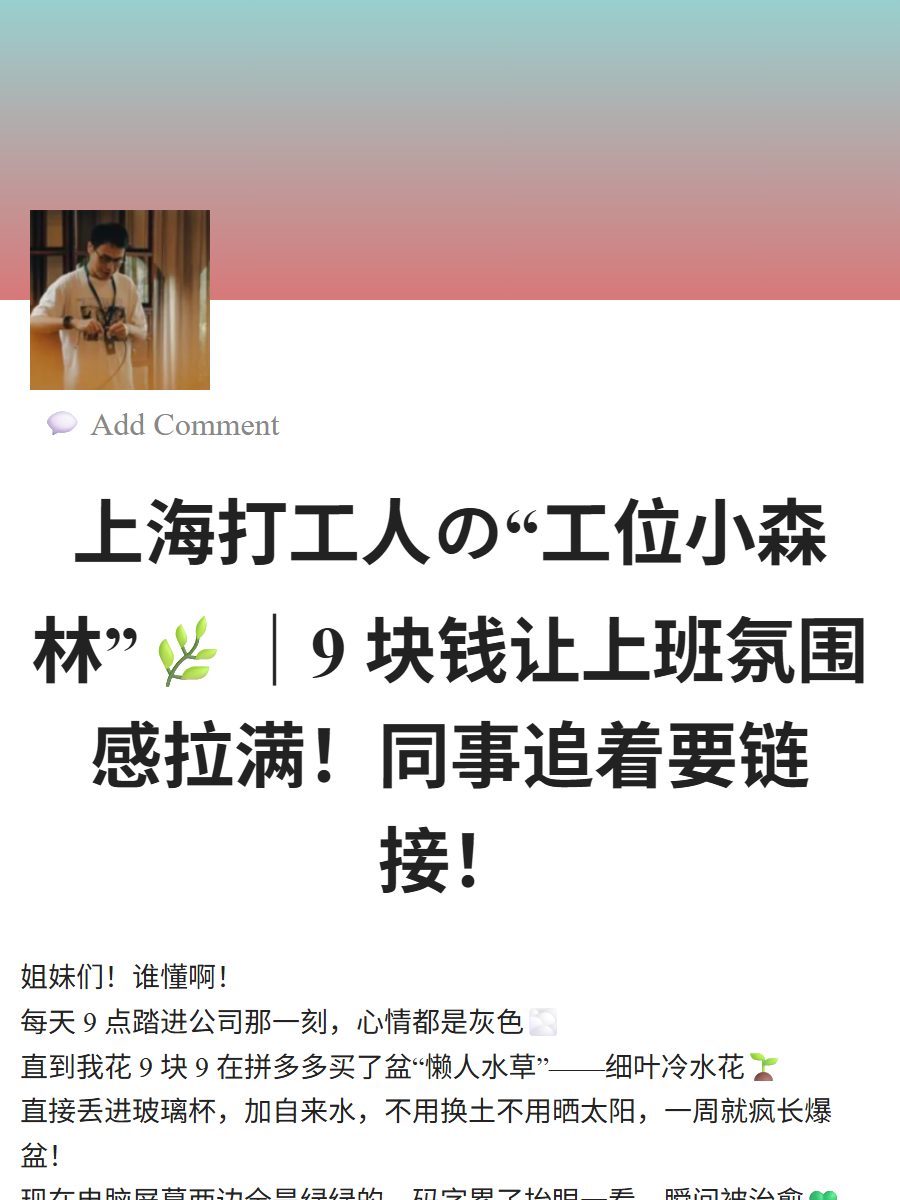
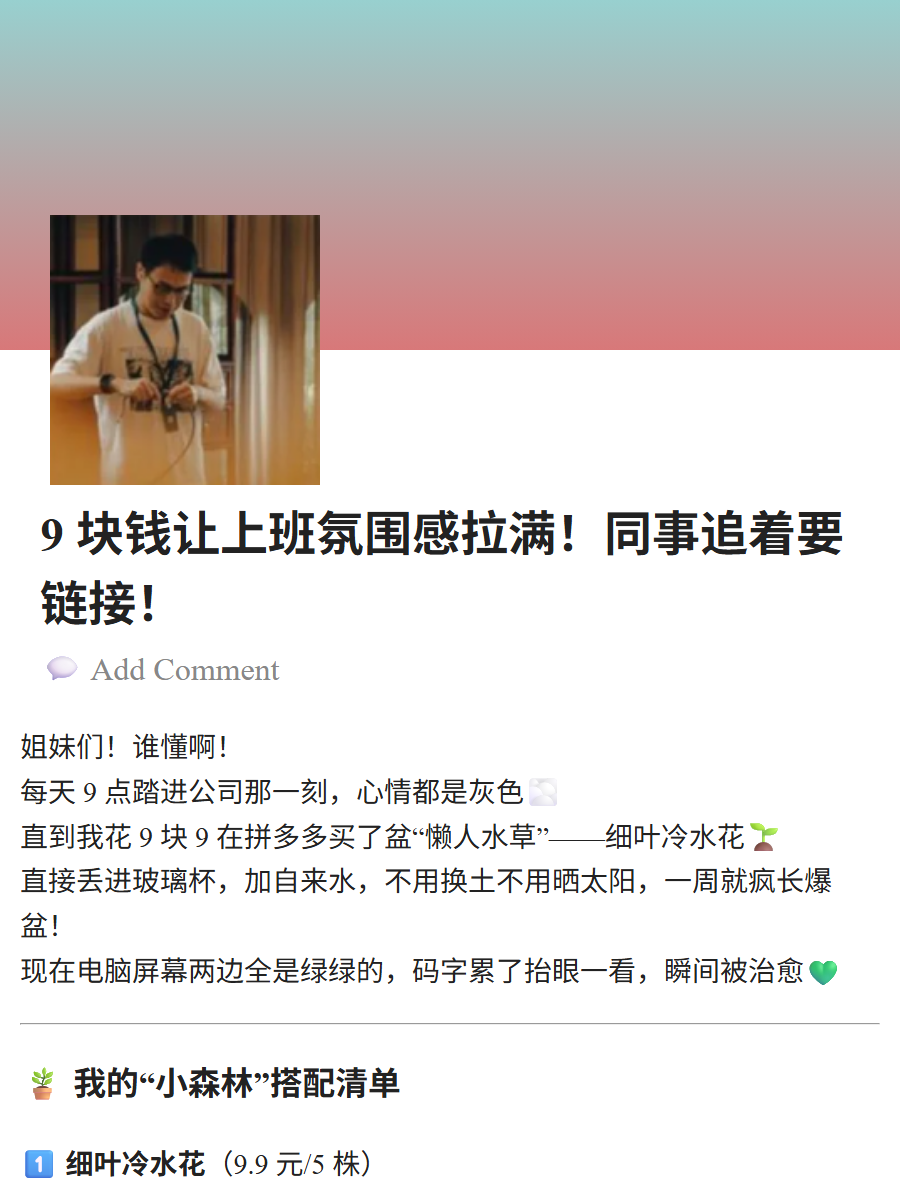
最接近version

Changed region(s): [[0.0, 0.1542, 1.0, 1.0], [0.6844, 0.8017, 0.9333, 0.8325]]

diff --git a/index.html b/index.html
@@ -20,7 +20,7 @@ body {
 
 .main-content {
     width: 900px;
-    height: 1200px;
+    height: auto;
     background-color: #FFFFFF; /* 白色长方形 */
     display: flex;
     flex-direction: column;
@@ -35,7 +35,7 @@ body {
     top:0;
     left: 0;
     width: 100%;
-    height: 300px;
+    height: 350px;
     background: linear-gradient(to bottom, #98D0CF 0%, #D87879 100%);
 }
 
@@ -45,22 +45,32 @@ body {
     display: flex;
     flex-direction: column;
     justify-content: flex-start;
-    padding: 390px 20px;
+    padding: 495px 20px;
 }
 
 .avatar {
     position: absolute;
     width: 270px;
     height: 270px;
-    top: 210px;
+    top: 215px;
     left: 50px;
 }
 
 #post-title {
-    font-size: 64px;
+    font-size: 48px;
     color: #222222;
-    margin: 0 0 20px 0;
-    text-align: center; /* 水平居中显示 */
+    margin: 0 0 10px 0;
+    text-align: left; 
+    margin-left: 20px;
+}
+
+.add-comment {
+    font-size: 32px; /* Double the assumed default of 16px */
+    color: #888888; /* Gray color */
+    text-align: left; /* Align to the left */
+    margin-top: 0;
+    margin-left: 20px;
+    margin-bottom: 10px;
 }
 
 #preview {
@@ -69,6 +79,11 @@ body {
     word-wrap: break-word;
     color: #222222;
     text-align: left;
+    margin-top: 0;
+}
+
+#preview p, #preview h1, #preview h2, #preview h3, #preview h4, #preview h5, #preview h6, #preview ul, #preview ol, #preview blockquote {
+    break-inside: avoid;
 }
     </style>
 </head>
@@ -77,8 +92,8 @@ body {
         <div class="header-gradient"></div>
         <div class="content-wrapper">
             <img src="image.png" class="avatar">
-            <p class="add-comment">Add comment</p>
             <h1 id="post-title"></h1>
+            <p class="add-comment">💬 Add Comment</p>
             <div id="preview"></div>
         </div>
     </div>
